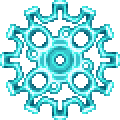
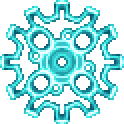
set objective gears

diff --git a/Content/Tiles/Vitric/Temple/GearPuzzle/GearTile.cs b/Content/Tiles/Vitric/Temple/GearPuzzle/GearTile.cs
@@ -71,7 +71,7 @@ namespace StarlightRiver.Content.Tiles.Vitric
 		bool engaged = false;
 		float direction = 0;
 
-		private int size;
+		protected int size;
 
 		public int Size
 		{
@@ -83,10 +83,25 @@ namespace StarlightRiver.Content.Tiles.Vitric
             }
 		}
 
+		public float Rotation
+		{
+			get
+			{
+				float rot = 0;
+
+				if (engaged)
+					rot = Main.GameUpdateCount * 0.01f * direction;
+
+				if (direction > 0)
+					rot += (float)Math.PI / Teeth;
+
+				return rot;
+			}
+		}
+
 		public int Teeth => GetTeeth();
 
-
-		public GearTileDummy() : base(ModContent.TileType<GearTile>(), 16, 16) { }
+		public GearTileDummy(int type) : base(type, 16, 16) { }
 
         public int GetTeeth()
 		{
@@ -131,42 +146,7 @@ namespace StarlightRiver.Content.Tiles.Vitric
 				default: tex = ModContent.GetTexture(AssetDirectory.VitricTile + "MagicalGearSmall"); break;
 			}
 
-			if(gearAnimation > 0) //switching between sizes animation
-			{
-				Texture2D texOld;
-
-				switch (oldSize)
-				{
-					case 0: texOld = ModContent.GetTexture(AssetDirectory.Invisible); break;
-					case 1: texOld = ModContent.GetTexture(AssetDirectory.VitricTile + "MagicalGearSmall"); break;
-					case 2: texOld = ModContent.GetTexture(AssetDirectory.VitricTile + "MagicalGearMid"); break;
-					case 3: texOld = ModContent.GetTexture(AssetDirectory.VitricTile + "MagicalGearLarge"); break;
-					default: texOld = ModContent.GetTexture(AssetDirectory.VitricTile + "MagicalGearSmall"); break;
-				}
-
-				if (gearAnimation > 20)
-				{
-					float progress = Helpers.Helper.BezierEase((gearAnimation - 20) / 20f);
-					spriteBatch.Draw(texOld, projectile.Center - Main.screenPosition, null, Color.White * 0.75f * progress, 0, texOld.Size() / 2, progress, 0, 0);
-				}
-				else
-				{
-					float progress = Helpers.Helper.SwoopEase(1 - gearAnimation / 20f);
-					spriteBatch.Draw(tex, projectile.Center - Main.screenPosition, null, Color.White * 0.75f * progress, 0, tex.Size() / 2, progress, 0, 0);
-				}
-
-				return;
-			}
-
-			float rot = 0;
-
-			if (engaged)
-				rot = Main.GameUpdateCount * 0.01f * direction;
-
-			if (direction > 0)
-				rot += (float)Math.PI / Teeth;
-
-			spriteBatch.Draw(tex, projectile.Center - Main.screenPosition, null, Color.White * 0.75f, rot, tex.Size() / 2, 1, 0, 0);
+			spriteBatch.Draw(tex, projectile.Center - Main.screenPosition, null, Color.White * 0.75f, Rotation, tex.Size() / 2, 1, 0, 0);
 		}
 
 		public void RecurseOverGears(Action<Point16, int> action)
@@ -261,21 +241,17 @@ namespace StarlightRiver.Content.Tiles.Vitric
 
 		private void TryEngage(Point16 pos, int size)
 		{
-			var tile = Framing.GetTileSafely(pos);
-			if (tile.type == ModContent.TileType<GearTile>())
+			if (DummyTile.DummyExists<GearTileDummy>(pos.X, pos.Y))
 			{
-				if (DummyTile.DummyExists(pos.X, pos.Y, ModContent.ProjectileType<GearTileDummy>()))
+				var gearDummy = (GearTileDummy)DummyTile.GetDummy<GearTileDummy>(pos.X, pos.Y).modProjectile;
+
+				if (gearDummy.size == size && !gearDummy.engaged)
 				{
-					var gearDummy = (GearTileDummy)DummyTile.GetDummy(pos.X, pos.Y, ModContent.ProjectileType<GearTileDummy>()).modProjectile;
+					int thisSize = Teeth;
+					int nextSize = gearDummy.Teeth;
 
-					if (gearDummy.size == size && !gearDummy.engaged)
-					{
-						int thisSize = Teeth;
-						int nextSize = gearDummy.Teeth;
-
-						gearDummy.direction = direction * -1 * (thisSize / (float)nextSize);
-						gearDummy.RecurseOverGears(gearDummy.TryEngage);
-					}
+					gearDummy.direction = direction * -1 * (thisSize / (float)nextSize);
+					gearDummy.RecurseOverGears(gearDummy.TryEngage);
 				}
 			}
 
@@ -285,18 +261,14 @@ namespace StarlightRiver.Content.Tiles.Vitric
 
 		private void TryDisengage(Point16 pos, int size)
 		{
-			var tile = Framing.GetTileSafely(pos);
-			if (tile.type == ModContent.TileType<GearTile>())
+			if (DummyTile.DummyExists<GearTileDummy>(pos.X, pos.Y))
 			{
-				if (DummyTile.DummyExists(pos.X, pos.Y, ModContent.ProjectileType<GearTileDummy>()))
-				{
-					var gearDummy = (GearTileDummy)DummyTile.GetDummy(pos.X, pos.Y, ModContent.ProjectileType<GearTileDummy>()).modProjectile;
+				var gearDummy = (GearTileDummy)DummyTile.GetDummy<GearTileDummy>(pos.X, pos.Y).modProjectile;
 
-					if (gearDummy.size == size && gearDummy.engaged)
-					{
-						gearDummy.direction = 0;
-						gearDummy.RecurseOverGears(gearDummy.TryDisengage);
-					}
+				if (gearDummy.size == size && gearDummy.engaged)
+				{
+					gearDummy.direction = 0;
+					gearDummy.RecurseOverGears(gearDummy.TryDisengage);
 				}
 			}
 
@@ -321,10 +293,5 @@ namespace StarlightRiver.Content.Tiles.Vitric
 		public virtual void OnEngage() { }
 
 		public virtual void OnDisengage() { }
-	}
-
-	class GearTilePlacer : QuickTileItem
-	{
-		public GearTilePlacer() : base("Gear puzzle", "Debug item", ModContent.TileType<GearTile>(), 8, AssetDirectory.Debug, true) { }
 	}
 }

diff --git a/Content/Tiles/Vitric/Temple/GearPuzzle/DynamicGear.cs b/Content/Tiles/Vitric/Temple/GearPuzzle/DynamicGear.cs
@@ -1,0 +1,76 @@
+using Microsoft.Xna.Framework;
+using Microsoft.Xna.Framework.Graphics;
+using StarlightRiver.Core;
+using System;
+using System.Collections.Generic;
+using System.Linq;
+using System.Text;
+using System.Threading.Tasks;
+using Terraria;
+using Terraria.ModLoader;
+
+namespace StarlightRiver.Content.Tiles.Vitric.Temple.GearPuzzle
+{
+    class DynamicGear : GearTile
+    {
+        public override int DummyType => ModContent.ProjectileType<DynamicGearDummy>();
+	}
+
+    class DynamicGearDummy : GearTileDummy
+    {
+        public DynamicGearDummy() : base(ModContent.TileType<DynamicGear>()) { }
+
+        public override void OnEngage()
+        {
+
+        }
+
+		public override void PostDraw(SpriteBatch spriteBatch, Color lightColor)
+		{
+			Texture2D tex;
+
+			switch (size)
+			{
+				case 0: tex = ModContent.GetTexture(AssetDirectory.Invisible); break;
+				case 1: tex = ModContent.GetTexture(AssetDirectory.VitricTile + "MagicalGearSmall"); break;
+				case 2: tex = ModContent.GetTexture(AssetDirectory.VitricTile + "MagicalGearMid"); break;
+				case 3: tex = ModContent.GetTexture(AssetDirectory.VitricTile + "MagicalGearLarge"); break;
+				default: tex = ModContent.GetTexture(AssetDirectory.VitricTile + "MagicalGearSmall"); break;
+			}
+
+			if (gearAnimation > 0) //switching between sizes animation
+			{
+				Texture2D texOld;
+
+				switch (oldSize)
+				{
+					case 0: texOld = ModContent.GetTexture(AssetDirectory.Invisible); break;
+					case 1: texOld = ModContent.GetTexture(AssetDirectory.VitricTile + "MagicalGearSmall"); break;
+					case 2: texOld = ModContent.GetTexture(AssetDirectory.VitricTile + "MagicalGearMid"); break;
+					case 3: texOld = ModContent.GetTexture(AssetDirectory.VitricTile + "MagicalGearLarge"); break;
+					default: texOld = ModContent.GetTexture(AssetDirectory.VitricTile + "MagicalGearSmall"); break;
+				}
+
+				if (gearAnimation > 20)
+				{
+					float progress = Helpers.Helper.BezierEase((gearAnimation - 20) / 20f);
+					spriteBatch.Draw(texOld, projectile.Center - Main.screenPosition, null, Color.White * 0.75f * progress, 0, texOld.Size() / 2, progress, 0, 0);
+				}
+				else
+				{
+					float progress = Helpers.Helper.SwoopEase(1 - gearAnimation / 20f);
+					spriteBatch.Draw(tex, projectile.Center - Main.screenPosition, null, Color.White * 0.75f * progress, 0, tex.Size() / 2, progress, 0, 0);
+				}
+
+				return;
+			}
+
+			spriteBatch.Draw(tex, projectile.Center - Main.screenPosition, null, Color.White * 0.75f, Rotation, tex.Size() / 2, 1, 0, 0);
+		}
+	}
+
+	class GearTilePlacer : QuickTileItem
+	{
+		public GearTilePlacer() : base("Gear puzzle", "Debug item", ModContent.TileType<DynamicGear>(), 8, AssetDirectory.Debug, true) { }
+	}
+}

diff --git a/Content/Tiles/Vitric/Temple/GearPuzzle/ObjectiveGear.cs b/Content/Tiles/Vitric/Temple/GearPuzzle/ObjectiveGear.cs
@@ -1,24 +1,62 @@
-using System;
+using Microsoft.Xna.Framework;
+using Microsoft.Xna.Framework.Graphics;
+using StarlightRiver.Core;
+using System;
 using System.Collections.Generic;
 using System.Linq;
 using System.Text;
 using System.Threading.Tasks;
+using Terraria;
+using Terraria.ModLoader;
 
 namespace StarlightRiver.Content.Tiles.Vitric.Temple.GearPuzzle
 {
-    class ObjectiveGear : GearTile
-    {
-        public override bool NewRightClick(int i, int j)
-        {
-            return true;
-        }
-    }
+	class ObjectiveGear : GearTile
+	{
+		public override int DummyType => ModContent.ProjectileType<ObjectiveGearDummy>();
 
-    class ObjectiveGearDummy : GearTileDummy
-    {
-        public override void OnEngage()
-        {
+		public override bool NewRightClick(int i, int j)
+		{
+			var dummy = (Dummy(i, j).modProjectile as GearTileDummy);
 
-        }
-    }
+			if (Main.LocalPlayer.HeldItem.type == ModContent.ItemType<Items.DebugStick>())
+			{
+				dummy.Size++;
+				return true;
+			}
+
+			return true;
+		}
+	}
+
+	class ObjectiveGearDummy : GearTileDummy
+	{
+		public ObjectiveGearDummy() : base(ModContent.TileType<ObjectiveGear>()) { }
+
+		public override void OnEngage()
+		{
+
+		}
+
+		public override void PostDraw(SpriteBatch spriteBatch, Color lightColor)
+		{
+			Texture2D tex;
+
+			switch (size)
+			{
+				case 0: tex = ModContent.GetTexture(AssetDirectory.Invisible); break;
+				case 1: tex = ModContent.GetTexture(AssetDirectory.VitricTile + "CeramicGearSmall"); break;
+				case 2: tex = ModContent.GetTexture(AssetDirectory.VitricTile + "CeramicGearMid"); break;
+				case 3: tex = ModContent.GetTexture(AssetDirectory.VitricTile + "CeramicGearLarge"); break;
+				default: tex = ModContent.GetTexture(AssetDirectory.VitricTile + "CeramicGearSmall"); break;
+			}
+
+			spriteBatch.Draw(tex, projectile.Center - Main.screenPosition, null, lightColor, Rotation, tex.Size() / 2, 1, 0, 0);
+		}
+	}
+
+	class ObjectiveGearItem : QuickTileItem
+	{
+		public ObjectiveGearItem() : base("Gear puzzle Point", "Debug item", ModContent.TileType<ObjectiveGear>(), 8, AssetDirectory.Debug, true) { }
+	}
 }

diff --git a/Core/DummyTile.cs b/Core/DummyTile.cs
@@ -29,12 +29,43 @@ namespace StarlightRiver.Core
             return null;
 		}
 
+        public static Projectile GetDummy<T>(int i, int j) where T : Dummy
+		{
+            Point16 key = new Point16(i, j);
+
+            if (dummies.TryGetValue(key, out Projectile dummy))
+            {
+                if (dummy.modProjectile is T)
+                    return dummy;
+            }
+
+            return null;
+        }
+
         public static bool DummyExists(int i, int j, int type)
 		{
+            if (GetDummy(i, j, type) != null)
+                return true;
+
             for (int k = 0; k < Main.maxProjectiles; k++)
             {
                 var proj = Main.projectile[k];
-                if (proj.active && proj.type == type && (proj.position / 16).ToPoint16() == new Terraria.DataStructures.Point16(i, j))
+                if (proj.active && proj.type == type && (proj.position / 16).ToPoint16() == new Point16(i, j))
+                    return true;
+            }
+
+            return false;
+        }
+
+        public static bool DummyExists<T>(int i, int j) where T : Dummy
+		{
+            if (GetDummy<T>(i, j) != null)
+                return true;
+
+            for (int k = 0; k < Main.maxProjectiles; k++)
+            {
+                var proj = Main.projectile[k];
+                if (proj.active && proj.modProjectile is T && (proj.position / 16).ToPoint16() == new Point16(i, j))
                     return true;
             }
 
